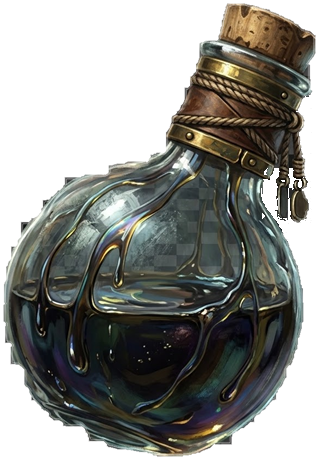
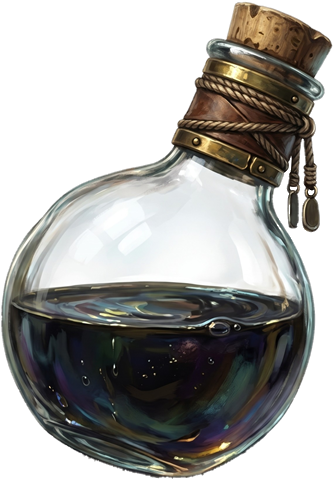
Replace the Slick flask art with a clean cutout and match the Appearance text

diff --git a/src/articles/slick.md b/src/articles/slick.md
@@ -19,9 +19,9 @@ summary: "A thrown alchemical consumable that coats an area in a slick, slippery
     <div class="stat-block-body">
       <div class="stat-block-main">
         <p class="appearance-label">Appearance</p>
-        <p>A corked flask of thick, dark, oily liquid that clings to the glass in slow, dripping streaks. Its surface shimmers with a rainbow sheen, and it carries a strong scent of oil and petroleum.</p>
+        <p>A corked flask of thick, dark, oily liquid that swirls slowly, its surface shimmering with a rainbow sheen and dotted with small bubbles. It carries a strong scent of oil and petroleum.</p>
       </div>
-      <img class="stat-block-art" src="{{ '/images/slick.png' | url }}" alt="A round glass flask with a cork stopper and a rope-wrapped leather neck banded in brass, holding dark, iridescent oil that drips down the inside of the glass." loading="lazy">
+      <img class="stat-block-art" src="{{ '/images/slick.png' | url }}" alt="A round glass flask with a cork stopper and a rope-wrapped leather neck banded in brass, holding dark, iridescent oil with a rainbow sheen and a few small bubbles." loading="lazy">
     </div>
   </div>
   <p><strong>Usage</strong> held in 1 hand; <strong>Bulk</strong> L<br>
